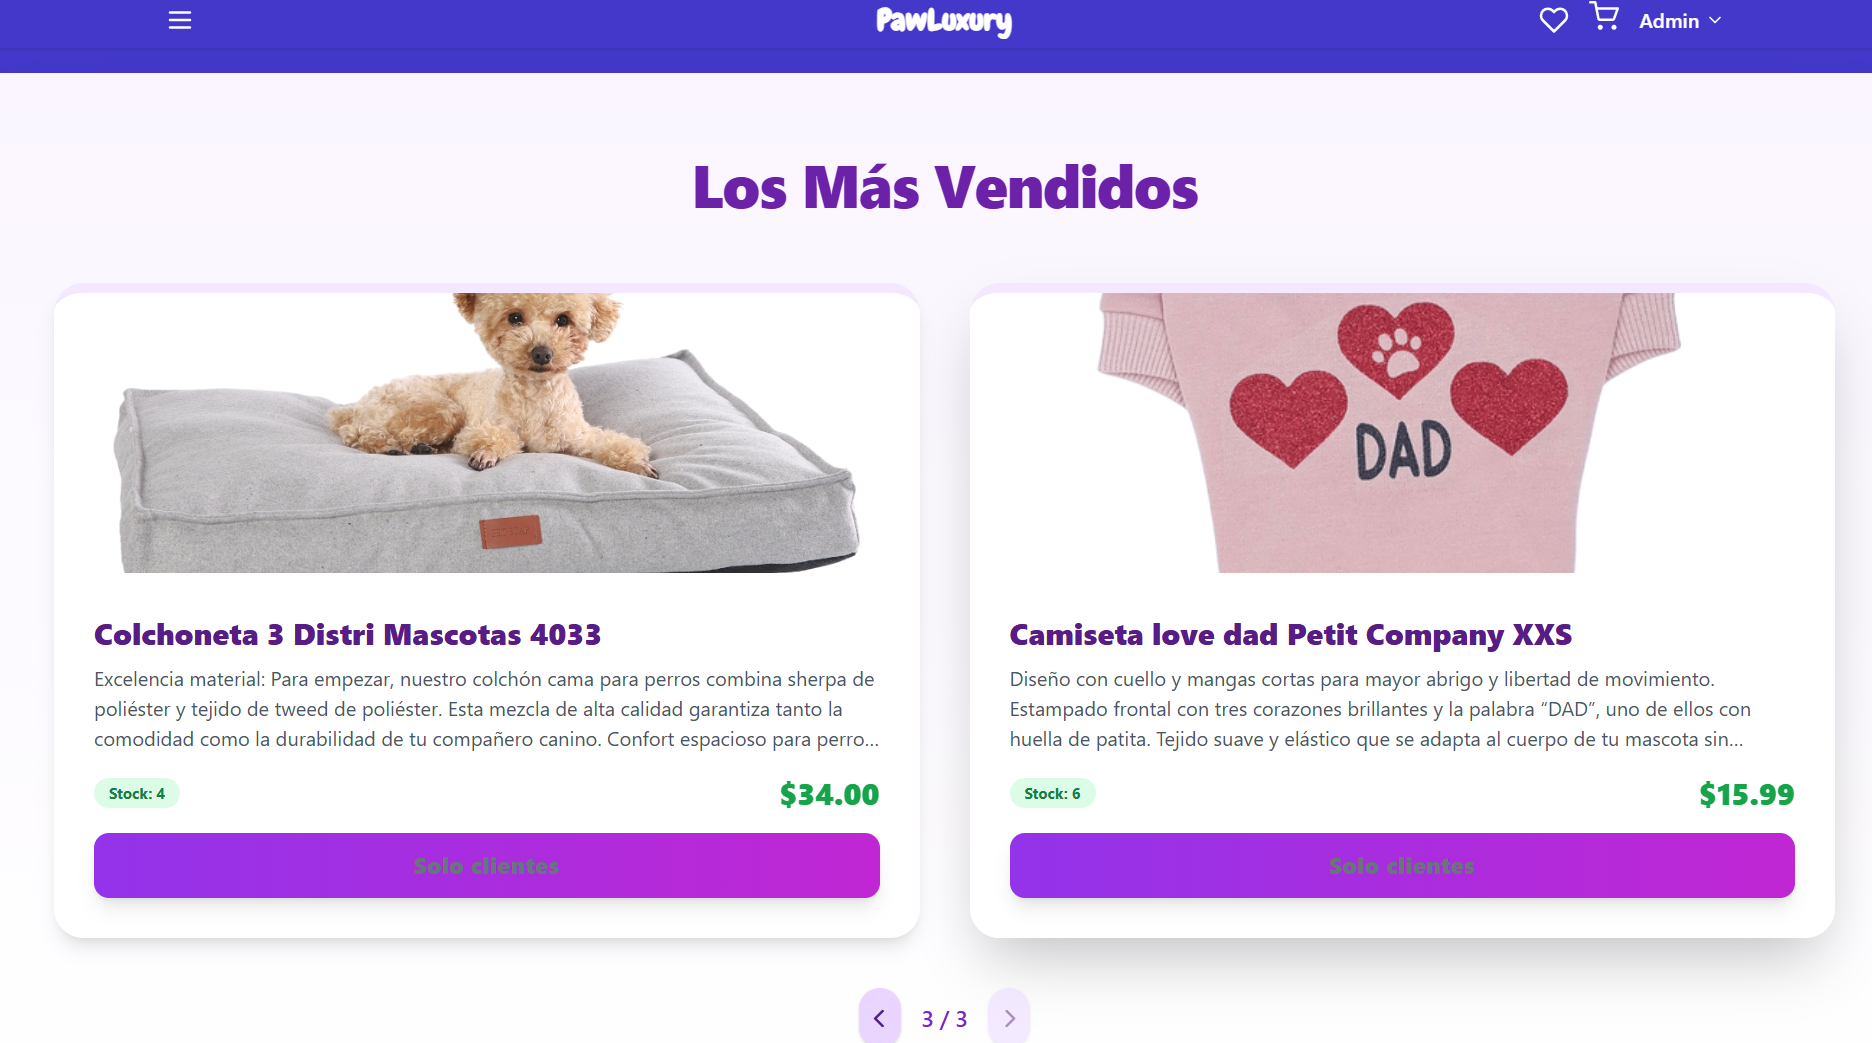
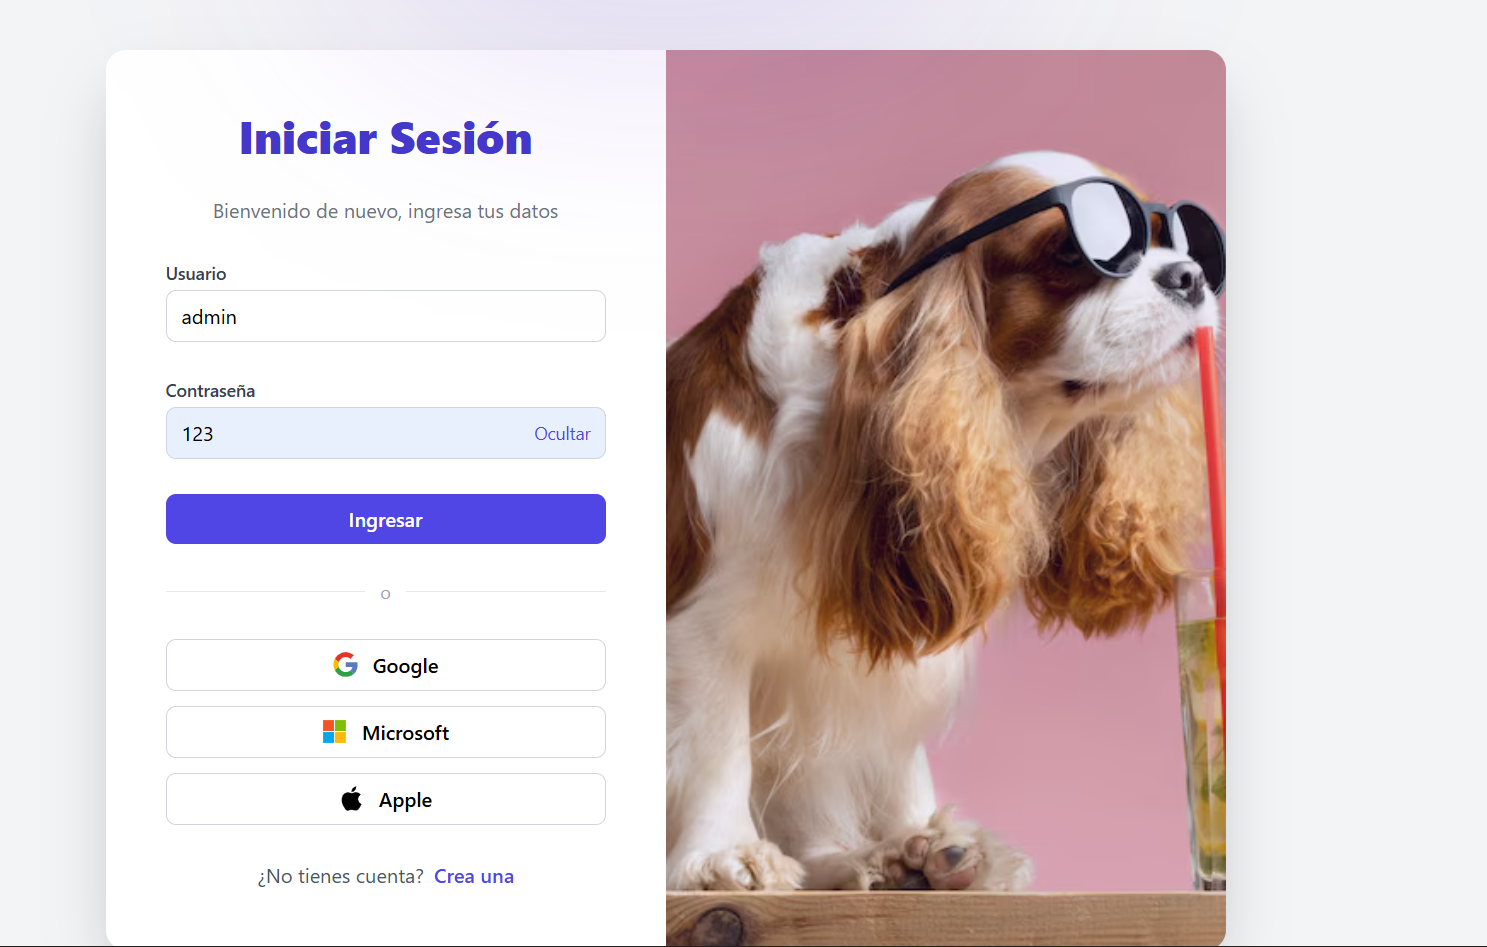
Agrega sección Maison APP

diff --git a/src/pages/Trabajos.jsx b/src/pages/Trabajos.jsx
@@ -35,6 +35,8 @@ import go2 from '../assets/capturas/go (2).png';
 import wawScreen from '../assets/capturas/waw.jpg';
 import wawQrAnimation from '../assets/lottie/qr.json';
 import wawQrCode from '../assets/capturas/WaWallet.apk_QR.png';
+import maisonScreen from '../assets/capturas/maison.jpg';
+import maisonQrCode from '../assets/capturas/Maisondeparfum.apk_QR.png';
 
 gsap.registerPlugin(ScrollTrigger);
 
@@ -141,9 +143,12 @@ const Trabajos = () => {
   // lightbox = { images, index, title } | null
   const [lightbox, setLightbox] = useState(null);
   const [qrFullscreen, setQrFullscreen] = useState(false);
+  const [maisonQrFullscreen, setMaisonQrFullscreen] = useState(false);
   const rootRef = useRef(null);
   const qrContainerRef = useRef(null);
   const qrAnimRef = useRef(null);
+  const maisonQrContainerRef = useRef(null);
+  const maisonQrAnimRef = useRef(null);
 
   useEffect(() => {
     window.scrollTo(0, 0);
@@ -182,6 +187,16 @@ const Trabajos = () => {
     return () => window.removeEventListener('keydown', handler);
   }, [qrFullscreen]);
 
+  // Cierre del QR de Maison APP en pantalla completa con Escape
+  useEffect(() => {
+    if (!maisonQrFullscreen) return;
+    const handler = (e) => {
+      if (e.key === 'Escape') setMaisonQrFullscreen(false);
+    };
+    window.addEventListener('keydown', handler);
+    return () => window.removeEventListener('keydown', handler);
+  }, [maisonQrFullscreen]);
+
   const openLightbox = (imgs, index, title) => setLightbox({ images: imgs, index, title });
 
   // Carga la animación del QR directamente con lottie-web sobre el div
@@ -209,6 +224,30 @@ const Trabajos = () => {
   };
   const handleQrHoverEnd = () => {
     qrAnimRef.current?.pause();
+  };
+
+  // Misma animación Lottie reutilizada para el QR de Maison APP
+  useEffect(() => {
+    if (!maisonQrContainerRef.current) return;
+    maisonQrAnimRef.current = lottie.loadAnimation({
+      container: maisonQrContainerRef.current,
+      renderer: 'svg',
+      loop: true,
+      autoplay: false,
+      animationData: wawQrAnimation,
+    });
+    return () => {
+      maisonQrAnimRef.current?.destroy();
+      maisonQrAnimRef.current = null;
+    };
+  }, []);
+
+  const handleMaisonQrHoverStart = () => {
+    maisonQrAnimRef.current?.setSpeed(1.3);
+    maisonQrAnimRef.current?.play();
+  };
+  const handleMaisonQrHoverEnd = () => {
+    maisonQrAnimRef.current?.pause();
   };
 
   /* ----------------------------------------------------------------
@@ -331,7 +370,7 @@ const Trabajos = () => {
             <path d="M12 8L16 12L12 16" stroke="currentColor" strokeWidth="1.8" strokeLinecap="round" strokeLinejoin="round" />
           </svg>
         </span>
-        Ver última publicación
+        Ver Next.js News Web con apis
       </a>
 
       {/* PDF Section */}
@@ -384,7 +423,7 @@ const Trabajos = () => {
           </div>
 
           <div className="waw-showcase">
-            <div className="waw-phone">
+            <div className="waw-phone waw-phone--iphone">
               <div className="waw-phone-notch" />
               <div className="waw-phone-screen">
                 <img src={wawScreen} alt="Pantalla de la aplicación WaWallet" loading="lazy" />
@@ -413,10 +452,69 @@ const Trabajos = () => {
           </div>
         </div>
 
+        {/* Maison APP Section */}
+        <div style={styles.subSection}>
+          <Eyebrow>React Native · Django · Consume WaWallet</Eyebrow>
+          <h4 style={styles.subtitle}>Maison APP — App de Perfumes</h4>
+          <div style={styles.desc}>
+            <p style={{ marginBottom: '1rem' }}>
+              Maison APP es la aplicación de perfumería construida con React Native, con un backend propio en Django, que consume la API de WaWallet para procesar los pagos dentro de la experiencia de compra.
+            </p>
+            <p>
+              Pruébala escaneando el código QR con tu celular, da clic sobre él para descargarlo.
+            </p>
+          </div>
+
+          <div className="waw-showcase">
+            <div
+              className="waw-qr-wrap"
+              role="button"
+              tabIndex={0}
+              onClick={() => setMaisonQrFullscreen(true)}
+              onMouseEnter={handleMaisonQrHoverStart}
+              onMouseLeave={handleMaisonQrHoverEnd}
+              onKeyDown={(e) => (e.key === 'Enter' || e.key === ' ') && setMaisonQrFullscreen(true)}
+              aria-label="Ver código QR de descarga de Maison APP en pantalla completa"
+            >
+              <div className="waw-android-badge">
+                <svg viewBox="0 0 24 24" width="16" height="16" fill="currentColor" aria-hidden="true">
+                  <path d="M17.523 15.34a1.05 1.05 0 1 1 0-2.1 1.05 1.05 0 0 1 0 2.1Zm-11.046 0a1.05 1.05 0 1 1 0-2.1 1.05 1.05 0 0 1 0 2.1ZM17.86 9.6l1.66-2.877a.375.375 0 0 0-.65-.375L17.17 9.19a10.76 10.76 0 0 0-10.34 0L5.13 6.348a.375.375 0 1 0-.65.375L6.14 9.6C3.6 11.09 1.9 13.68 1.6 16.66h20.8c-.3-2.98-2-5.57-4.54-7.06Z" />
+                </svg>
+                <span>Disponible en Android</span>
+              </div>
+              <div ref={maisonQrContainerRef} className="waw-qr-lottie" />
+              <span className="waw-qr-hint">Toca para ampliar ↗</span>
+            </div>
+
+            <div className="waw-phone waw-phone--galaxy">
+              <div className="waw-phone-camera" />
+              <div className="waw-phone-screen">
+                <img src={maisonScreen} alt="Pantalla de la aplicación Maison APP" loading="lazy" />
+              </div>
+            </div>
+          </div>
+        </div>
+
         {/* Django Backend Section */}
         <div style={styles.subSection}>
           <Eyebrow>Python · Django REST Framework · PostgreSQL</Eyebrow>
           <h4 style={styles.subtitle}>Backend en Django</h4>
+          <a
+            href="https://appmovilback-1.onrender.com/admin/"
+            target="_blank"
+            rel="noopener noreferrer"
+            className="simple-link"
+            style={{ ...styles.simpleLink, marginTop: '0', marginBottom: '1.5rem' }}
+          >
+            <span aria-hidden="true" style={styles.linkIconBox}>
+              <svg width="14" height="14" viewBox="0 0 24 24" fill="none" xmlns="http://www.w3.org/2000/svg">
+                <rect x="2" y="2" width="20" height="20" rx="5" stroke="currentColor" strokeWidth="1.8" />
+                <path d="M8 12H16" stroke="currentColor" strokeWidth="1.8" strokeLinecap="round" />
+                <path d="M12 8L16 12L12 16" stroke="currentColor" strokeWidth="1.8" strokeLinecap="round" strokeLinejoin="round" />
+              </svg>
+            </span>
+            Ver demo version 07.26
+          </a>
           <div style={styles.desc}>
             <p style={{ marginBottom: '1rem' }}>
               <strong>El Problema:</strong> La aplicación móvil de perfumería requería de un sistema central que gestionara el inventario, los usuarios y los pedidos de forma segura y unificada. Era crítico que este sistema pudiera orquestar lógica de negocio compleja, como jerarquías de fragancias y precios dinámicos, de manera altamente eficiente.
@@ -487,7 +585,7 @@ const Trabajos = () => {
               <path d="M12 8L16 12L12 16" stroke="currentColor" strokeWidth="1.8" strokeLinecap="round" strokeLinejoin="round" />
             </svg>
           </span>
-          Ver demo
+          Ver demo version 07.26
         </a>
 
         <div style={styles.desc}>
@@ -679,6 +777,24 @@ const Trabajos = () => {
           <figure className="qr-fullscreen-figure" onClick={(e) => e.stopPropagation()}>
             <img src={wawQrCode} alt="Código QR para descargar WaWallet" />
             <figcaption>Escanea para descargar WaWallet</figcaption>
+          </figure>
+        </div>,
+        document.body
+      )}
+
+      {/* QR de Maison APP en pantalla completa */}
+      {maisonQrFullscreen && createPortal(
+        <div className="fullscreen-modal qr-fullscreen-backdrop" onClick={() => setMaisonQrFullscreen(false)}>
+          <button
+            className="close-btn lightbox-close"
+            onClick={(e) => { e.stopPropagation(); setMaisonQrFullscreen(false); }}
+            aria-label="Cerrar"
+          >
+            ×
+          </button>
+          <figure className="qr-fullscreen-figure" onClick={(e) => e.stopPropagation()}>
+            <img src={maisonQrCode} alt="Código QR para descargar Maison APP" />
+            <figcaption>Escanea para descargar Maison APP</figcaption>
           </figure>
         </div>,
         document.body
@@ -1061,6 +1177,22 @@ const galleryStyles = `
   height: 16px;
   background: #0a0a0f;
   border-radius: 10px;
+  z-index: 2;
+}
+.waw-phone--galaxy {
+  border-radius: 26px;
+  border-color: #15151c;
+}
+.waw-phone-camera {
+  position: absolute;
+  top: 12px;
+  left: 50%;
+  transform: translateX(-50%);
+  width: 12px;
+  height: 12px;
+  border-radius: 50%;
+  background: #0a0a0f;
+  border: 2px solid #1c1c24;
   z-index: 2;
 }
 .waw-phone-screen {
